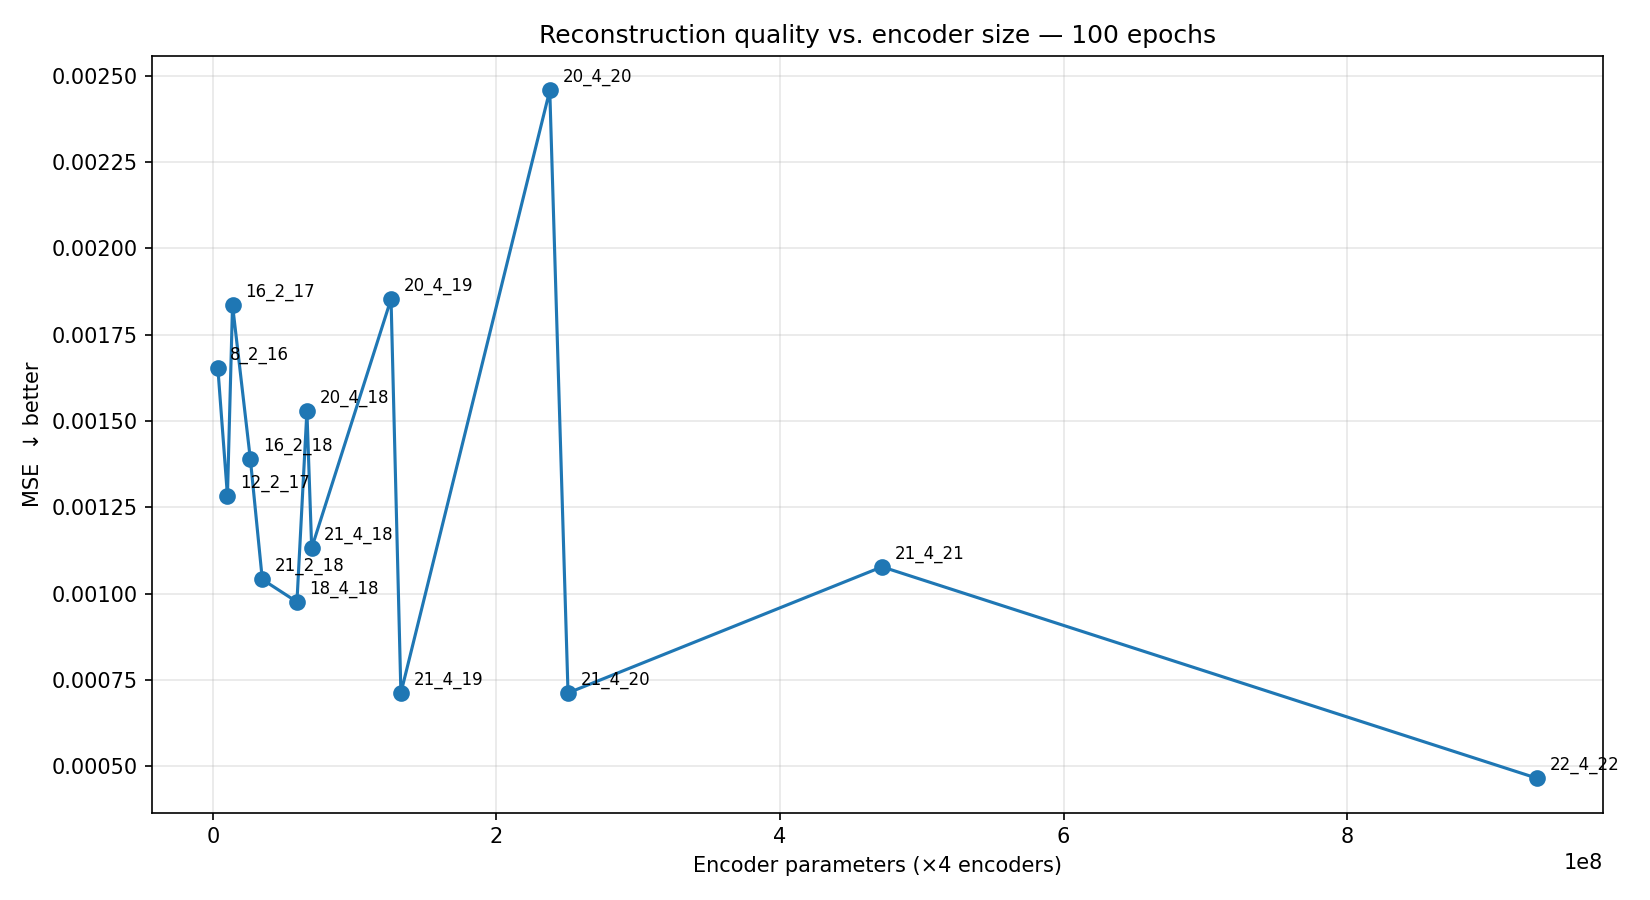
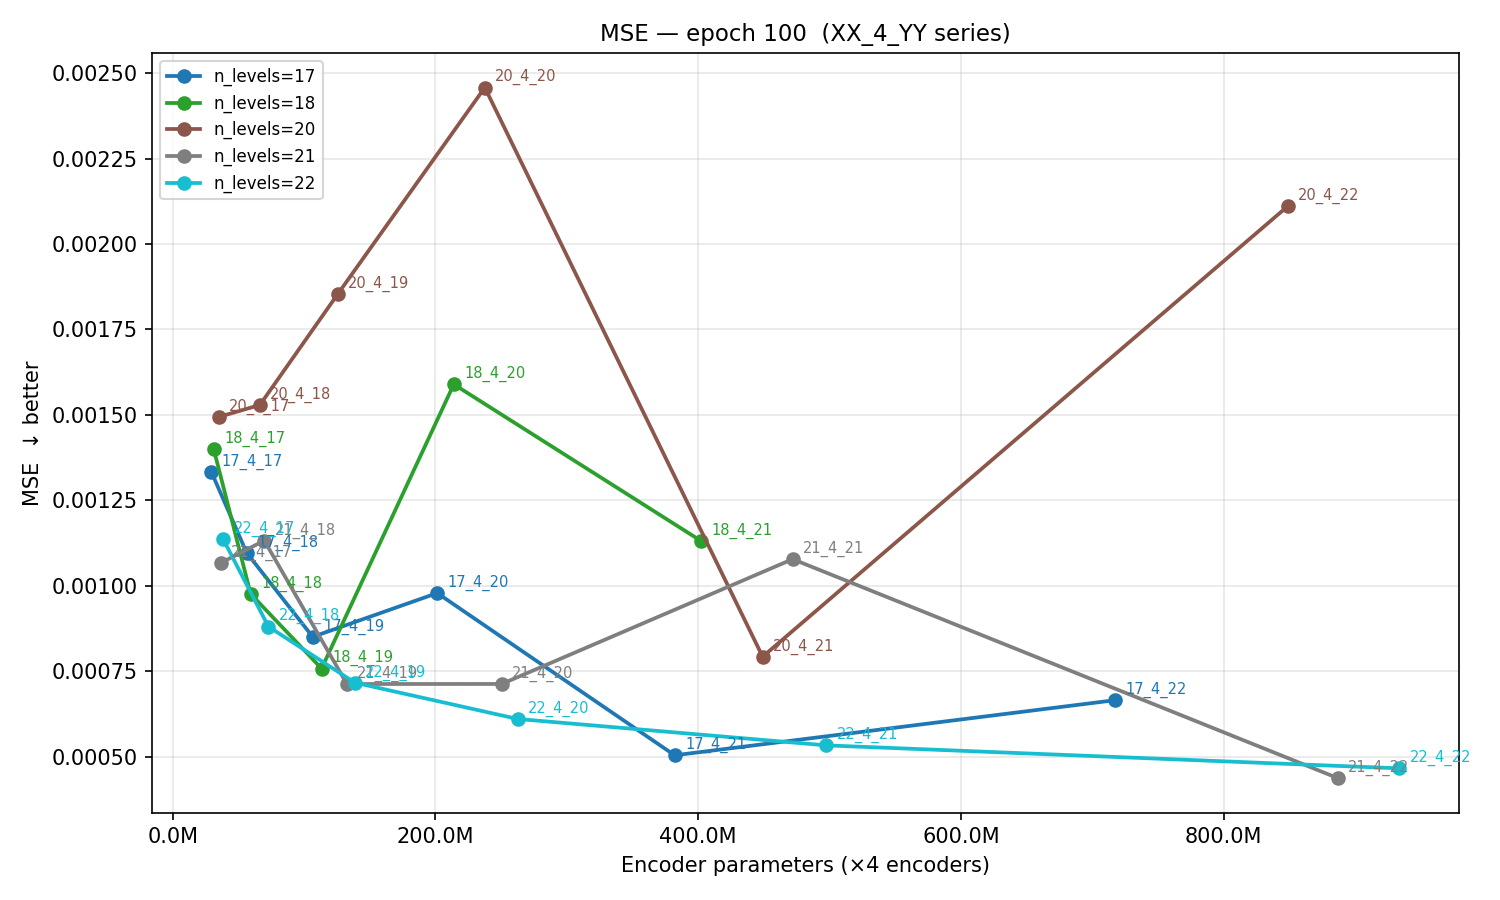
refining sexcubes

diff --git a/sizediff_psnr_plot.py b/sizediff_psnr_plot.py
@@ -177,17 +177,14 @@ def main() -> None:
         ("psnr", "PSNR (dB)  ↑ better"),
     ]
 
-    fig, axes = plt.subplots(
-        nrows=len(METRICS),
-        ncols=len(EPOCH_LABELS),
-        figsize=(14, 9),
-        squeeze=False,
-    )
+    results_dir = os.path.join(os.path.dirname(__file__), "results")
+    os.makedirs(results_dir, exist_ok=True)
 
-    for row, (metric_key, ylabel) in enumerate(METRICS):
-        for col, epoch_label in enumerate(EPOCH_LABELS):
-            ax = axes[row][col]
+    for metric_key, ylabel in METRICS:
+        for epoch_label in EPOCH_LABELS:
             key = f"{metric_key}_{epoch_label}"
+
+            fig, ax = plt.subplots(figsize=(10, 6))
 
             for n_levels in sorted_levels:
                 entries = groups[n_levels]
@@ -214,22 +211,18 @@ def main() -> None:
                         color=color,
                     )
 
-            ax.set_title(f"{metric_key.upper()} — epoch {epoch_label}", fontsize=10)
-            ax.set_xlabel("Encoder parameters (×4 encoders)", fontsize=8)
-            ax.set_ylabel(ylabel, fontsize=8)
+            ax.set_title(f"{metric_key.upper()} — epoch {epoch_label}  (XX_4_YY series)", fontsize=11)
+            ax.set_xlabel("Encoder parameters (×4 encoders)")
+            ax.set_ylabel(ylabel)
             ax.xaxis.set_major_formatter(ticker.FuncFormatter(lambda x, _: f"{x/1e6:.1f}M"))
             ax.grid(True, alpha=0.3)
-            ax.legend(fontsize=7, loc="best")
+            ax.legend(fontsize=8, loc="best")
+            plt.tight_layout()
 
-    fig.suptitle("Reconstruction quality vs. encoder size  (XX_4_YY series)", fontsize=12)
-    plt.tight_layout()
-
-    results_dir = os.path.join(os.path.dirname(__file__), "results")
-    os.makedirs(results_dir, exist_ok=True)
-    out_path = os.path.join(results_dir, "sizediff_combined.png")
-    plt.savefig(out_path, dpi=150)
-    print(f"\nSaved plot → {out_path}")
-    plt.show()
+            out_path = os.path.join(results_dir, f"sizediff_{metric_key}_epoch{epoch_label}.png")
+            plt.savefig(out_path, dpi=150)
+            print(f"Saved plot → {out_path}")
+            plt.close(fig)
 
 
 if __name__ == "__main__":

diff --git a/demo/39_singlecube.py b/demo/39_singlecube.py
@@ -71,9 +71,9 @@ reconstruction_path_dynamic, _ = nect.reconstruct(
         },
         "encoder": {
             "otype": "HashGrid",
-            "n_levels": 18,
+            "n_levels": 20,
             "n_features_per_level": 4,
-            "log2_hashmap_size": 26,
+            "log2_hashmap_size": 25,
             "base_resolution": 16,
             "max_resolution_factor": 2,
         },

diff --git a/demo/35_sexcubes.py b/demo/35_sexcubes.py
@@ -82,7 +82,7 @@ reconstruction_path_dynamic, _ = nect.reconstruct(
             activation="LeakyReLU",
             output_activation="ReLU",
             n_neurons=128,
-            n_hidden_layers=4,
+            n_hidden_layers=10,
             include_identity=False,
             include_adaptive_skip=False,
         ),},
